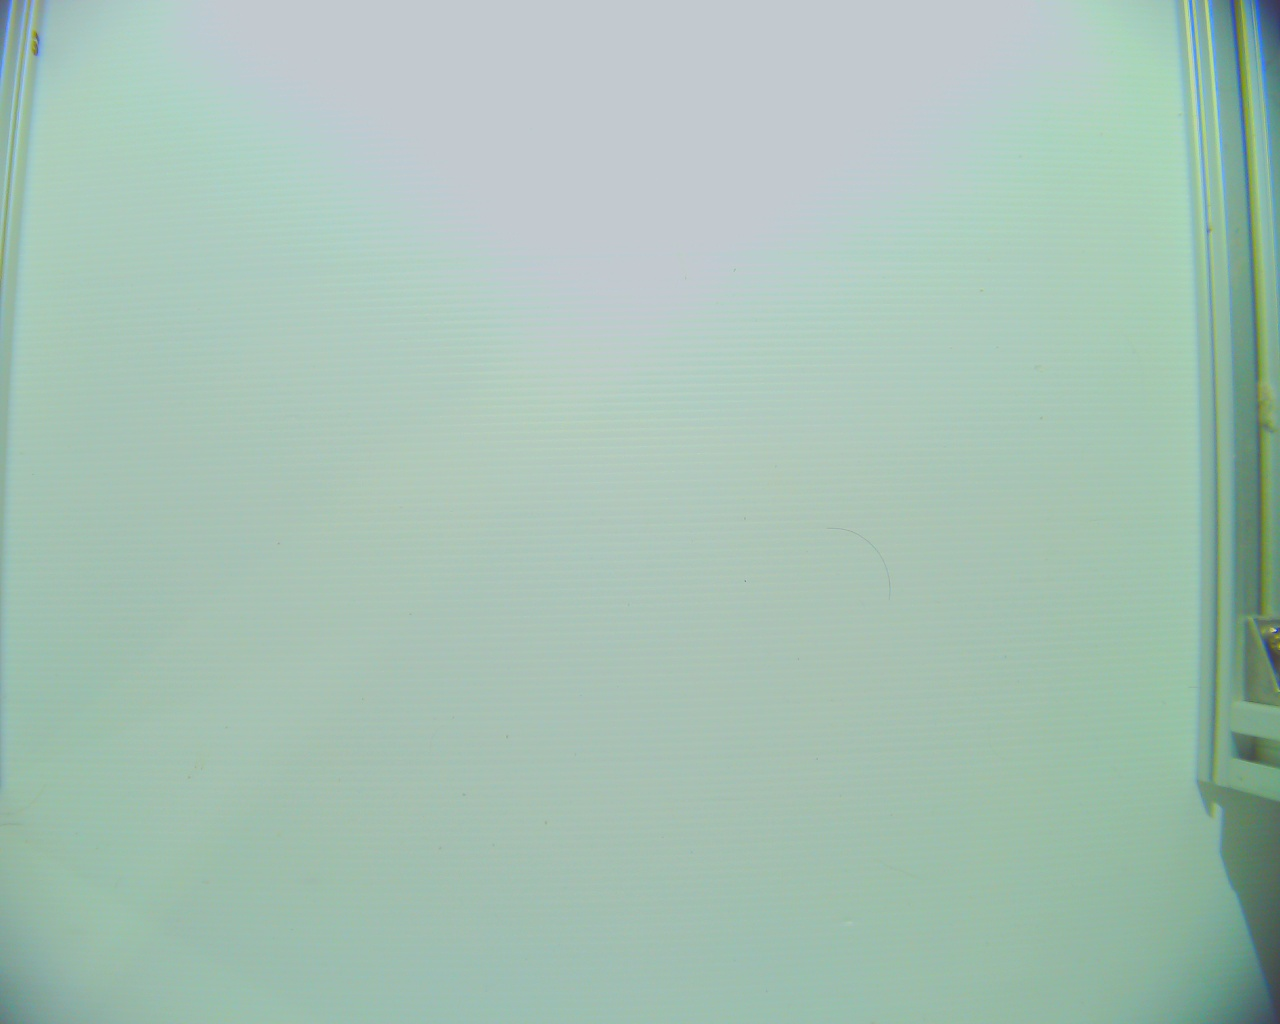
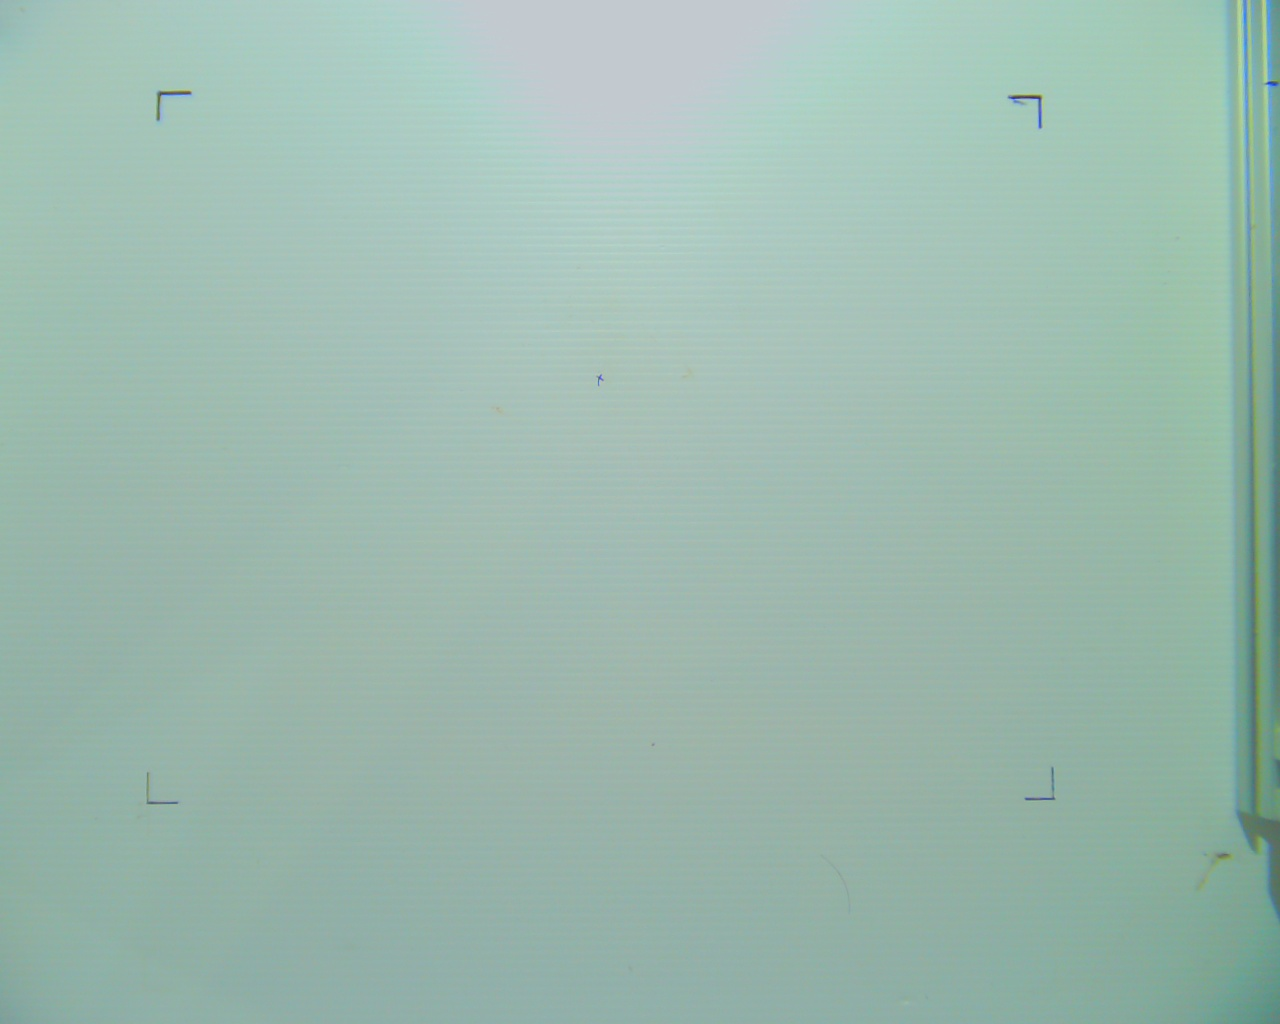
change some paramters before 3rd test with mango

diff --git a/app/utils/rayvol.py b/app/utils/rayvol.py
@@ -30,8 +30,9 @@ class Rayvol(object):
             self.camera = Camera()
         # self.raw_stream = Streamer()
 
-        time.sleep(3)
+        time.sleep(1)
         self.set_camera_init_config()
+        time.sleep(1)
 
         self.raw_frame = None
         self.raw_stream_enable = False
@@ -51,6 +52,9 @@ class Rayvol(object):
         # self.objValue = config["value"]
 
         # self.camera_start()
+
+        self.intrinsic_matrix = np.array(self.config["intrinsicMatrix"])
+        self.distortion_coefficient = np.array(self.config["distortionCoe"])
 
         self.thread_process_image = Thread(target=self.process_image, daemon=True, args=())
 
@@ -100,6 +104,7 @@ class Rayvol(object):
         return True
 
     def start_process_image(self):
+        self.imgBg = cv2.cvtColor(cv2.imread("./app/ref/background_400.jpg"), cv2.COLOR_BGR2GRAY)
         if self.offline == False:
             self.stopped_process_image = False
             if not self.thread_process_image.is_alive():
@@ -122,7 +127,8 @@ class Rayvol(object):
         p = os.path.sep.join(
             ['./app/ref', "background_400.jpg"])
         print(p)
-        cv2.imwrite(p, self.camera.read())
+        raw_frame = cv2.undistort(self.camera.read(), self.intrinsic_matrix, self.distortion_coefficient, None)
+        cv2.imwrite(p, raw_frame)
 
     def capture_all(self, sample_number):
         now = datetime.datetime.now()
@@ -132,8 +138,12 @@ class Rayvol(object):
             os.makedirs(p)
         except OSError as error:
             print(error)
-        cv2.putText(self.raw_frame, sample_number, (80, 80), cv2.FONT_HERSHEY_SIMPLEX, 1, (0, 0, 255), 2, cv2.LINE_AA)
-        cv2.imwrite(os.path.join(p, "imageraw.jpg"), self.raw_frame)
+        text = sample_number + ", " + str(self.volume) + "cm^3" + ", " + str(round(self.length, 2)) + ", " + str(round(self.width, 2)) + ", " + str(round(self.height, 2))
+        # raw_with_measured = self.raw_frame.copy()
+        raw_frame = cv2.undistort(self.camera.read(), self.intrinsic_matrix, self.distortion_coefficient, None)
+        cv2.putText(self.overlay_frame, text, (80, 80), cv2.FONT_HERSHEY_SIMPLEX, 1, (0, 0, 255), 2, cv2.LINE_AA)
+        cv2.imwrite(os.path.join(p, "imageraw.jpg"), raw_frame )
+        cv2.imwrite(os.path.join(p, "imageraw_overlay.jpg"), self.overlay_frame)
         cv2.imwrite(os.path.join(p, "imagediff.jpg"), self.imageDiff)
         cv2.imwrite(os.path.join(p, "imagediffbin.jpg"), self.imageDiffBin)
         cv2.imwrite(os.path.join(p, "imagediffmorph.jpg"), self.imageDiffMorph)
@@ -155,6 +165,16 @@ class Rayvol(object):
             
             with open(os.path.join(p, "reconstruct.json"), 'w') as f:
                 json.dump(self.objJson, f)
+
+            objJson = {
+                'volume': self.objJson["volume"],
+                "length": self.objJson["length"],
+                "width": self.objJson["width"],
+                "height": self.objJson["height"],
+                "computeTime": self.objJson["computeTime"]
+            }
+            with open(os.path.join(p, "result_" + sample_number + ".json"), 'w') as f:
+                json.dump(objJson , f)
         except:
             pass
 
@@ -165,8 +185,10 @@ class Rayvol(object):
                     pass
                 else:
                     start_time = time.time()
-                    self.raw_frame = self.camera.read()
+                    # self.raw_frame = self.camera.read()
+                    self.raw_frame = cv2.undistort(self.camera.read(), self.intrinsic_matrix, self.distortion_coefficient, None)
                     self.overlay_frame = self.overlay_lightsource_projection(self.raw_frame)
+                    self.overlay_frame = self.overlay_measure_area(self.overlay_frame)
                     self.imageDiff =  cv2.absdiff(cv2.cvtColor(self.raw_frame, cv2.COLOR_BGR2GRAY), self.imgBg)
                     ret, self.imageDiffBin = cv2.threshold(
                                 self.imageDiff, 5, 255, cv2.THRESH_BINARY)
@@ -174,8 +196,9 @@ class Rayvol(object):
                                 self.imageDiffBin, cv2.MORPH_OPEN, cv2.getStructuringElement(cv2.MORPH_RECT,(7,7)))
                     self.imageROI, self.posCrop = segmentation.singleObjShadow(self.raw_frame, self.imageDiffMorph)
                     self.imageObjColor, self.imageObj, self.imageShadow, self.imageSkeleton, self.objHsvRange = segmentation.obj_shadow_skeleton(self.imageROI[0])
+                    # self.imageObjColor, self.imageObj, self.imageShadow, self.imageSkeleton, self.objHsvRange = segmentation.shadow_obj_skeleton(self.imageROI[0])
                     self.objReconstruct.reconstruct(self.raw_frame, self.imageObj, self.imageSkeleton, self.imageShadow, self.posCrop )
-                    ptCloud, volume, length, width, height = self.objReconstruct.reconstructVolume(0.05)
+                    ptCloud, self.volume, self.length, self.width, self.height = self.objReconstruct.reconstructVolume(0.05)
                     end_time = time.time()
                     if self.is_socketConnecting == True:
                         self.objJson = {
@@ -184,10 +207,10 @@ class Rayvol(object):
                                 "y": ptCloud[:, 1].tolist(),
                                 "z": ptCloud[:, 2].tolist(),
                             },
-                            "volume": volume,
-                            "length": length,
-                            "width": width,
-                            "height": height,
+                            "volume": self.volume,
+                            "length": self.length,
+                            "width": self.width,
+                            "height": self.height,
                             "computeTime": (end_time - start_time)
                         }
                         self.socket.emit('reconstruction-data', json.dumps(self.objJson))
@@ -240,7 +263,7 @@ class Rayvol(object):
                 yield (self.msg_image_gen(self.imageObj))
                 prefix = "\r\n"
             except Exception as e:
-                # print(e)
+                print(e)
                 pass
             time.sleep(1 / 30)
 
@@ -269,10 +292,12 @@ class Rayvol(object):
     def config_stream(self):
         while self.config_stream_enable == True:
             raw_frame = self.camera.read()
+            raw_frame = cv2.undistort(raw_frame, self.intrinsic_matrix, self.distortion_coefficient, None)
             if self.config_hsv_enable == True:
                 imageHSV = cv2.cvtColor(raw_frame, cv2.COLOR_BGR2HSV_FULL)
                 objJson = self.get_hsv(imageHSV)
                 self.socket.emit('hsv-config-data', json.dumps(objJson))
+            overlay_raw_frame = self.overlay_measure_area(raw_frame)
             yield (self.msg_image_gen(raw_frame))
             prefix = "\r\n"
             time.sleep(1 / 30)
@@ -319,9 +344,12 @@ class Rayvol(object):
 
         crop_image = full_image[lightsource_offset[0]:lightsource_offset[0]+height, 0:image.shape[1]]
 
-        cv2.circle(crop_image ,(389, 164), 10, (0,0,255), -1)
-        cv2.circle(crop_image ,(825, 164), 10, (0,0,255), -1)
-        cv2.circle(crop_image ,(383, 605), 10, (0,0,255), -1)
-        cv2.circle(crop_image ,(833, 605), 10, (0,0,255), -1)
-        
         return crop_image
+
+    def overlay_measure_area(self, image):
+        overlay_image = image
+        cv2.circle(overlay_image ,(159, 96), 10, (0,0,255), -1)
+        cv2.circle(overlay_image ,(1041, 100), 10, (0,0,255), -1)
+        cv2.circle(overlay_image ,(148, 807), 10, (0,0,255), -1)
+        cv2.circle(overlay_image ,(1054, 803), 10, (0,0,255), -1)
+        return overlay_image

diff --git a/app/utils/segmentation.py b/app/utils/segmentation.py
@@ -197,10 +197,15 @@ def shadow(imgROI, imgObj):
     contours, hierarchy = cv2.findContours(
         imgShadow, cv2.RETR_LIST, cv2.CHAIN_APPROX_SIMPLE)
 
+    imgConvex = np.zeros_like(imgShadow )
     if len(contours) != 0:
         # find the biggest area of the contour
         big_contour = max(contours, key=cv2.contourArea)
+        epsilon = 0.001*cv2.arcLength(big_contour, True)
+        approx = cv2.approxPolyDP(big_contour, epsilon, True)
         # cv2.drawContours(imgObj, [big_contour], 0, (255, 255, 255), -1)
+        cnt = cv2.convexHull(big_contour)
+        cv2.drawContours(imgConvex, [cnt], 0, 255, -1)
         # cnt = cv2.convexHull(big_contour)
         cv2.drawContours(imgContour, [big_contour], 0, (255, 255, 255), -1)
 
@@ -224,7 +229,7 @@ def shadow(imgROI, imgObj):
         #                              np.ones((15, 15), np.uint8))
     # cv2.drawContours(imgShadow, big_contour, 0, 255, 1)
     imgExOr = cv2.bitwise_xor(imgContour, imgObj)
-    return cv2.bitwise_and(imgContour, imgExOr)
+    return cv2.bitwise_and(imgContour, imgExOr), imgConvex
 
 # def shadow(imageHSV):
 #     hChannel, sChannel, vChannel = imageHSV[:,:,0], imageHSV[:,:,1], imageHSV[:,:,2]
@@ -251,8 +256,8 @@ def shadow(imgROI, imgObj):
 def obj(imgHSV):
     hChannel, sChannel, vChannel = imgHSV[:,:,0], imgHSV[:,:,1], imgHSV[:,:,2]
     mean, std = cv2.meanStdDev(sChannel) 
-    # sChannelThreshold = abs(mean + (std*0.3))[0][0]
-    sChannelThreshold = std[0][0]
+    sChannelThreshold = abs(mean + (std*0.5))[0][0]
+    # sChannelThreshold = std[0][0] * 0.8
     # print(sChannelThreshold)
     imgHSV = cv2.inRange(
         imgHSV, (0, sChannelThreshold, 1), (360, 255, 255))
@@ -425,13 +430,24 @@ def shadowEdgeOnObj(imgObjColor, imgHSV, hue, saturation, value):
     # imgShadowOnObj = cv2.morphologyEx(imgShadowOnObj, cv2.MORPH_OPEN, np.ones((3, 3), np.uint8), iterations=1)
     return imgConvex
 
+def shadow_obj_skeleton(imageROI):
+    imageHSV = cv2.cvtColor(imageROI, cv2.COLOR_BGR2HSV_FULL)
+    # imageHSV = increase_brightness(imageHSV, 200)
+    # imageShadow = shadow(imageHSV)
+    imageObj, imageObjConvex, objHsvRange = obj(imageHSV)
+    # imageSkeleton = skeleton(imageObjConvex)
+    imageShadow, imageShadowConvex = shadow(imageROI, imageObj)
+    imageSkeleton = skeleton(imageShadowConvex)
+    return imageHSV, imageShadow, imageObj, imageSkeleton, objHsvRange
+
 def obj_shadow_skeleton(imageROI):
     imageHSV = cv2.cvtColor(imageROI, cv2.COLOR_BGR2HSV_FULL)
     # imageHSV = increase_brightness(imageHSV, 200)
     # imageShadow = shadow(imageHSV)
     imageObj, imageObjConvex, objHsvRange = obj(imageHSV)
+    # imageSkeleton = skeleton(imageObjConvex)
+    imageShadow, imageShadowConvex = shadow(imageROI, imageObj)
     imageSkeleton = skeleton(imageObjConvex)
-    imageShadow = shadow(imageROI, imageObj)
     return imageHSV, imageObj, imageShadow, imageSkeleton, objHsvRange
 
 # def increase_brightness(imageHSV, value):

diff --git a/app/utils/reconstruct.py b/app/utils/reconstruct.py
@@ -236,6 +236,8 @@ class reconstruct:
         self.sliceSplineZ = np.array([])
         self.totalLength = self.ptCloudSectionLeft[self.loop -1, 1] - self.ptCloudSectionLeft[0, 1]
         print("Object Total Length = ", self.totalLength)
+        # self.width = np.amax(self.ptCloudSectionRight[:, 0]) - np.amin(self.ptCloudSectionLeft[:, 0])
+        # print("width: " + str(np.amax(self.ptCloudSectionRight[:, 0]) - np.amin(self.ptCloudSectionLeft[:, 0])))
 
         for i in range(0, self.loop):
             # to compute area properly polygon points must be sort to counter clockwise
@@ -326,8 +328,15 @@ class reconstruct:
             
             figSpline.show()
 
-        self.width = np.amax(self.slicingObj[:, 1]) - np.amin(self.slicingObj[:, 2])
-        self.height = np.amax(self.slicingObj[:, 2]) - np.amin(self.slicingObj[:, 2])
+        self.width = self.slicingObj[np.argmax(self.slicingObj[:, 1]), 1] - self.slicingObj[np.argmin(self.slicingObj[:, 1]), 1]
+        # self.width = abs(np.amax(self.ptCloudSectionRight[:, 0]) - np.amin(self.ptCloudSectionLeft[:, 0]))
+        
+        # print("sliceLeft: " + str(np.argmax(self.ptCloudSectionLeft[:, 0])) + ", " + str(np.argmin(self.ptCloudSectionLeft[:, 0])))
+        # print("sliceRight: " + str(np.argmax(self.ptCloudSectionRight[:, 0])) + ", " + str(np.argmin(self.ptCloudSectionRight[:, 0])))
+        self.height = self.slicingObj[np.argmax(self.slicingObj[:, 2]), 2] - self.slicingObj[np.argmin(self.slicingObj[:, 2]), 2]
+        # self.height = np.amax(self.ptCloudObjHeightUpper[:,2]) * 2
+        # print("width:" + self.width)
+        # print("height: " + self.height)
         return self.slicingObj, self.objVolume, self.totalLength, self.width, self.height
 
     def imgChart_3d(self):
